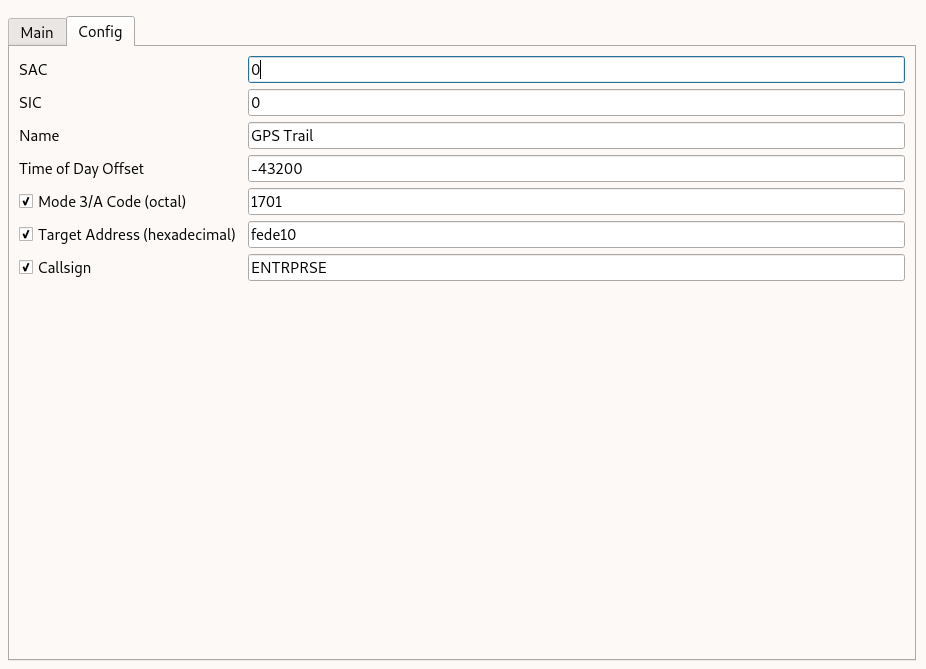
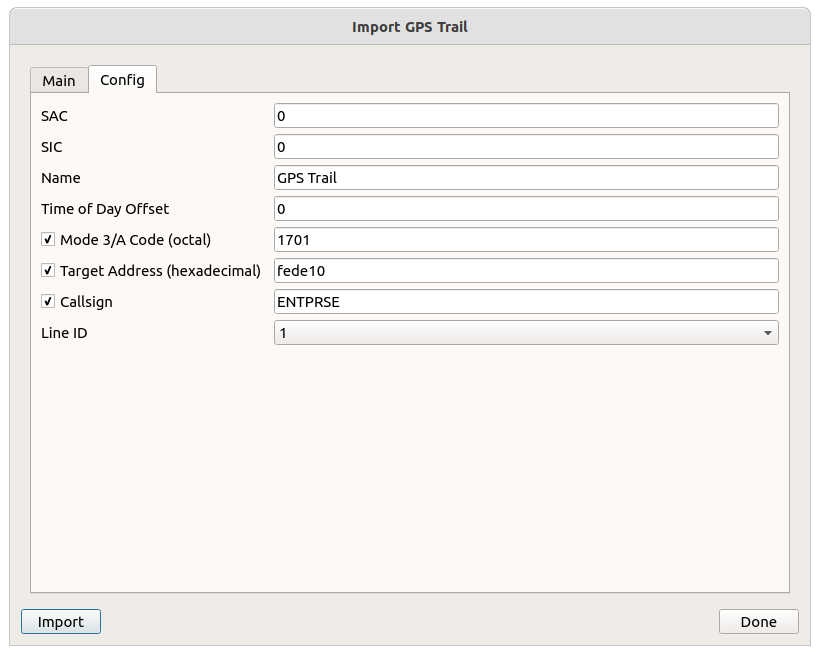
doc update

diff --git a/doc/user_manual/ui_overview/task_import_gps.tex b/doc/user_manual/ui_overview/task_import_gps.tex
@@ -1,59 +1,4 @@
 \section{Task: Import GPS Trail}
 \label{sec:task_import_gps} 
 
-This task allows importing of (D)GPS trails into the opened database, by parsing an NMEA file and writing the updates into the RefTraj DBObject.
 
-\begin{figure}[H]
-  \hspace*{-2.5cm}
-    \includegraphics[width=19cm]{figures/gps_import_task.png}
-  \caption{Task: Import GPS Trail}
-\end{figure}
-
-There exist 2 tabs:
-
-\begin{itemize}  
-\item Main: File list and information text
-\item Config: Configuration of data source and secondary information
-\end{itemize}
-\ \\
-
-\subsection{Main Tab}
-
-In the 'File Selection' list, a list of available NMEA files is given. Entries can be added using the 'Add' button or removed using either the 'Remove' or 'Remove All' buttons. \\
-
-Below a text field is given which, after selection of an NMEA file, displays the content information and/or error messages. \\
-
-\subsection{Config Tab}
-
-\begin{figure}[H]
-    \includegraphics[width=16cm,frame]{figures/gps_import_config.png}
-  \caption{Task: Import GPS Trail Config}
-\end{figure}
-
-In the configuration tab, several configuration parameters can be set:
-
-\begin{itemize}  
-\item SAC: System area code of the reference data source
-\item SIC: System identification code of the reference data source
-\item Name: Name of the reference data source
-\item Time of Day Offset: Time correction factor, in seconds. Set to 0 to disable.
-\item Mode 3/A Code (octal): Mode 3/A code to be set. Uncheck checkbox to disable.
-\item Target Address (hexadecimal): Mode S address to be set. Uncheck checkbox to disable.
-\item Callsign: Target identification to be set. Uncheck checkbox to disable.
-\end{itemize}
-\ \\
-
-\subsection{Running}
-
-After selecting an NMEA file, using the 'Run Current Task' button the task can be performed.
-
-\begin{figure}[H]
-    \includegraphics[width=16cm,frame]{figures/gps_import_ready.png}
-  \caption{Task: Import GPS Trail Ready}
-\end{figure}
-
-Please note that, based on two conditions, reference trajectory updates are skipped if:
-\begin{itemize}  
-\item the time is the same as the previous update or
-\item the quality is set to 0 (invalid position).
-\end{itemize}

diff --git a/doc/user_manual/ui_overview/ui_import_gps.tex b/doc/user_manual/ui_overview/ui_import_gps.tex
@@ -1,2 +1,55 @@
 \subsection{Import GPS Trails}
 \label{sec:ui_import_gps}
+
+This task allows importing of (D)GPS trails into the opened database, by parsing an NMEA file and writing the updates into the RefTraj DBContent.
+
+\begin{figure}[H]
+  \center
+    \includegraphics[width=16cm]{figures/gps_import_task.png}
+  \caption{Import GPS Trail}
+\end{figure}
+
+There exist 2 tabs:
+
+\begin{itemize}
+\item Main: File path and information text
+\item Config: Configuration of data source and secondary information
+\end{itemize}
+\ \\
+
+\subsection{Main Tab}
+
+At the top, a label exists indicating the file to be imported. \\
+
+Below, a text field is given which after selection of an NMEA file displays the content information and/or error messages. \\
+
+\subsection{Config Tab}
+
+\begin{figure}[H]
+    \includegraphics[width=16cm]{figures/gps_import_config.png}
+  \caption{Import GPS Trail Config}
+\end{figure}
+
+In the configuration tab, several configuration parameters can be set:
+
+\begin{itemize}
+\item SAC: System area code of the reference data source
+\item SIC: System identification code of the reference data source
+\item Name: Name of the reference data source
+\item Time of Day Offset: Time correction factor, in seconds. Set to 0 to disable.
+\item Mode 3/A Code (octal): Mode 3/A code to be set. Uncheck checkbox to disable.
+\item Target Address (hexadecimal): Mode S address to be set. Uncheck checkbox to disable.
+\item Callsign: Target identification to be set. Uncheck checkbox to disable.
+\item Line ID: Line to be used during import
+\end{itemize}
+\ \\
+
+\subsection{Running}
+
+After selecting an NMEA file, using the 'Import' button the task can be performed.
+
+Please note that based on two conditions, reference trajectory updates are skipped if:
+\begin{itemize}
+\item the time is the same as the previous update or
+\item the quality is set to 0 (invalid position).
+\end{itemize}

diff --git a/doc/user_manual/ui_overview/ui_import_asterix.tex b/doc/user_manual/ui_overview/ui_import_asterix.tex
@@ -113,7 +113,7 @@ This feature should only be used in very specific circumstances. When activated,
   \center
     \hspace*{-0.5cm}
     \includegraphics[width=17cm]{figures/asterix_import_data_mappings.png}
-  \caption{Task: Import ASTERIX Data Mappings}
+  \caption{Task: Import ASTERIX data mappings}
 \end{figure}
 
 At the top, the GUI elements can be used to show/add/remove ASTERIX JSON parsers. Below that, the currently selected ASTERIX JSON parser is shown and can be configured. \\
@@ -154,7 +154,7 @@ Using the 'Import' button the task can be performed. During import a status indi
 \begin{figure}[H]
   \center
     \includegraphics[width=5cm]{figures/asterix_import_data_status.png}
-  \caption{Import ASTERIX Data Status}
+  \caption{Import ASTERIX data status}
 \end{figure}
 
 If an decoding error occurs, a brief message box is shown, after which the application has to be closed. Please make sure that the correct framing and edition versions are selected, or contact the author for support if this does not resolve the issue. \\

diff --git a/doc/user_manual/ui_overview/ui_import_asterix_network.tex b/doc/user_manual/ui_overview/ui_import_asterix_network.tex
@@ -1,2 +1,16 @@
 \subsection{Import ASTERIX from Network}
 \label{sec:ui_import_asterix_network}
+
+
+This task allows importing of ASTERIX data from the network into the opened database, and switches from Offline to Live mode. \\
+
+\begin{figure}[H]
+  \center
+    \hspace*{-0.5cm}
+    \includegraphics[width=17cm]{figures/asterix_import_data_network.png}
+  \caption{Import ASTERIX Data from network}
+\end{figure}
+
+Except for the ASTERIX source at the top, everything is the same as described in \nameref{sec:ui_import_asterix}. \\
+
+When the import is started, data is continously read from the network (according to the data source network lines specficiation) and processed according to TODO\_LINK.
